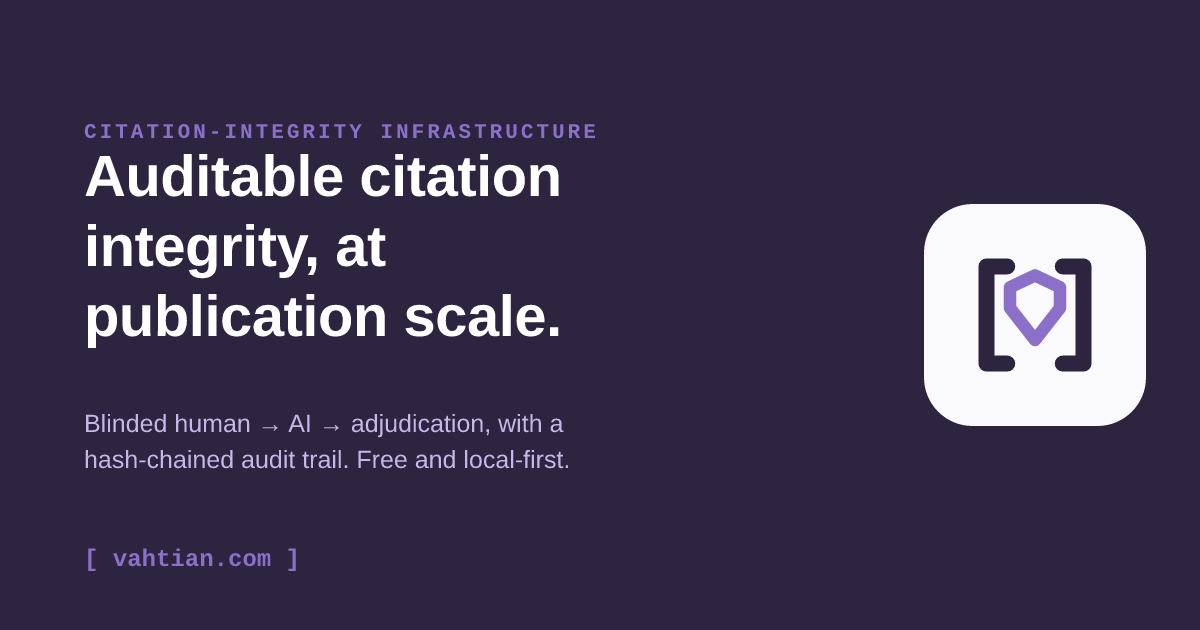
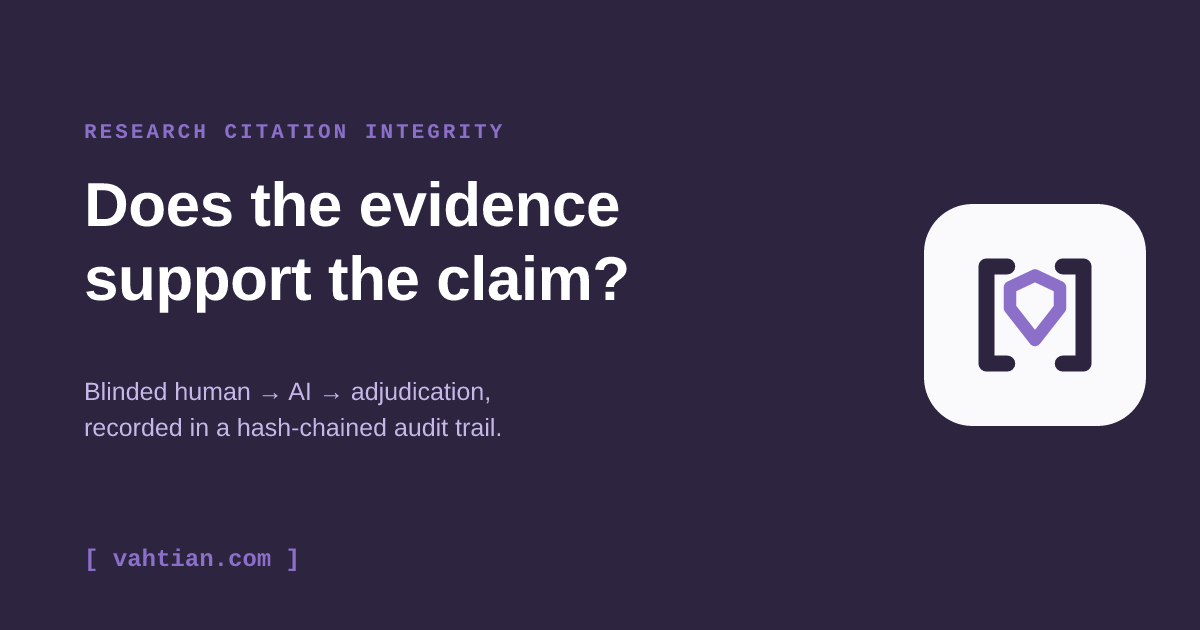
Homepage: plain-language wedge, maturity ladder, trust contract
Three structural changes to index.html:

1. Hero — lead with the plain proposition ('Vahtian verifies whether each
   manuscript claim is supported by the evidence cited for it') instead of
   'sentinel layer / at publication scale'. New stacked positioning lines and
   CTAs ('Check one claim with CiteVahti' / 'See the audit workflow'). 'Sentinel'
   kept as brand poetry lower down. Added a concise #workflow section as the
   secondary-CTA target.

2. Product architecture — replace the flat catalog with a Start / Prepare /
   Scale maturity ladder so the names self-sort: Start = CiteVahti; Prepare =
   StudyVahti, MethodVahti, DictVahti, MatchVahti-Lite; Scale = ReviewVahti,
   GuidelineVahti, AtlasVahti. Tighter, self-sorting descriptors.

3. Trust contract — prominent 'Vahtian does not decide scientific truth' with
   the records sentence (who rated it, what the AI advised, how disagreements
   were adjudicated, what was finally written), above the four principles.

Also refreshed the vahtian OG card copy to match the new hero. Self-contained
check clean; tags balanced.

Changed region(s): [[0.0617, 0.181, 0.5242, 0.5429], [0.0617, 0.6635, 0.4625, 0.754], [0.0617, 0.6032, 0.4008, 0.6333]]

diff --git a/index.html b/index.html
@@ -92,6 +92,20 @@
     .principle h3{margin:0 0 6px;font-size:15px}
     .principle p{margin:0;color:var(--muted);font-size:14px}
     .contact a{font-weight:600}
+    .stack3{display:grid;gap:5px;margin:6px 0 22px;color:#3a3450;font-size:clamp(15px,2.2vw,18px)}
+    .stack3 b{color:var(--ink)}
+    h2 .sub{font-weight:400;font-size:14px;color:var(--muted)}
+    ol.flow{margin:0 0 14px;padding-left:20px;display:grid;gap:9px;color:#322c47}
+    ol.flow b{color:var(--ink)}
+    .tierhead{display:flex;align-items:baseline;gap:11px;flex-wrap:wrap;margin:26px 0 13px}
+    .tierhead:first-of-type{margin-top:6px}
+    .tierhead .t{font:700 12px/1 ui-monospace,SFMono-Regular,Menlo,monospace;letter-spacing:.1em;text-transform:uppercase;color:#fff;background:var(--navy);padding:6px 11px;border-radius:6px}
+    .tierhead .d{color:var(--muted);font-size:14.5px}
+    .contract{background:var(--navy);border-radius:14px;padding:26px 24px}
+    .contract h2{color:#fff;margin:0 0 12px;font-size:clamp(20px,3.4vw,28px);line-height:1.14}
+    .contract p{color:#d9d3ea;font-size:15.5px;line-height:1.65;margin:0;max-width:66ch}
+    .contract p b{color:#fff}
+    .vahti.lower{margin:26px 0 0}
     footer{padding:30px 0 50px;color:var(--muted);font-size:13px;border-top:1px solid var(--line);margin-top:36px}
     footer a{color:var(--muted)}
   </style>
@@ -113,29 +127,56 @@
   </header>
 
   <div class="hero">
-    <p class="kicker">Citation-integrity infrastructure</p>
-    <h1>Auditable citation integrity, at publication scale.</h1>
-    <p class="lede">Vahtian builds the <b>sentinel layer</b> for research citations:
-      a blinded <b>human&nbsp;→&nbsp;AI&nbsp;→&nbsp;adjudication</b> workflow with a
-      decision-gated, undoable write and a hash-chained audit trail. Free and
-      local-first for researchers; paid infrastructure for the organizations that
-      carry citation-risk exposure.</p>
-    <p class="vahti"><b>vahti</b> — Finnish for <i>sentinel / guard</i>. The watch
-      over what gets cited.</p>
+    <p class="kicker">Research citation integrity</p>
+    <h1>Is each claim actually supported by the evidence cited for it?</h1>
+    <p class="lede">Vahtian verifies whether each manuscript claim is supported by
+      the evidence cited for it — through a blinded
+      <b>human&nbsp;→&nbsp;AI&nbsp;→&nbsp;adjudication</b> workflow with a
+      decision-gated, undoable write and a hash-chained audit trail.</p>
+    <div class="stack3">
+      <span><b>Human-first. AI-second. Auditable.</b></span>
+      <span>Free local tools for researchers.</span>
+      <span>Infrastructure for journals, guideline groups, and research organizations.</span>
+    </div>
     <div class="cta">
-      <a class="btn primary" href="/citevahti/">Try CiteVahti →</a>
-      <a class="btn ghost" href="https://github.com/heidihelena/citevahti">View on GitHub</a>
+      <a class="btn primary" href="/citevahti/">Check one claim with CiteVahti →</a>
+      <a class="btn ghost" href="#workflow">See the audit workflow</a>
     </div>
   </div>
 
+  <section id="workflow">
+    <h2>The audit workflow <span class="sub">— blinded human → AI → adjudication</span></h2>
+    <ol class="flow">
+      <li><b>Claim becomes a test.</b> Each manuscript claim is checked against the source cited for it.</li>
+      <li><b>Evidence, not topic.</b> Does the cited paper actually support <em>this</em> claim? (PICO-level match, not keyword overlap.)</li>
+      <li><b>You decide — blinded.</b> The AI rates too, but its opinion stays hidden until you’ve rated. The human is the decider.</li>
+      <li><b>Disagreements adjudicated.</b> When human and AI differ, it routes to a person — never silently resolved.</li>
+      <li><b>Guarded write.</b> A reference enters your library only as the audited, undoable last step of your decision.</li>
+      <li><b>Recorded.</b> A hash-chained audit trail of who rated what, what the AI advised, and what was finally written.</li>
+    </ol>
+    <p><a class="notify" href="/citevahti/">Run it on your manuscript with CiteVahti →</a></p>
+  </section>
+
   <section>
-    <h2>The Vahtian products</h2>
+    <h2>One system, three stages <span class="sub">— start where you are, grow into infrastructure</span></h2>
+
+    <div class="tierhead"><span class="t">Start</span><span class="d">Verify the claims in your own manuscript.</span></div>
     <div class="products">
       <div class="p cite">
         <img class="pmark" src="brand/marks/citevahti.svg" width="46" height="46" alt="" loading="lazy">
         <span><a class="name" href="/citevahti">CiteVahti</a>
-          <span class="for">Researchers &amp; labs — verify the claim before you cite it, inline in your manuscript.</span></span>
+          <span class="for">Verify that each claim in your manuscript is supported by the source cited for it.</span></span>
         <span class="tag beta">free beta</span>
+      </div>
+    </div>
+
+    <div class="tierhead"><span class="t">Prepare</span><span class="d">Get the study and its evidence right before analysis.</span></div>
+    <div class="products">
+      <div class="p study">
+        <img class="pmark" src="brand/marks/studyvahti.svg" width="46" height="46" alt="" loading="lazy">
+        <span><a class="name" href="/studyvahti">StudyVahti</a>
+          <span class="for">Plan a defensible study before data collection — PICOTS, a variable codebook, and protocol-readiness triage.</span></span>
+        <span class="tag free">free · live</span>
       </div>
       <div class="p method">
         <svg class="pmark" viewBox="0 0 32 32" aria-hidden="true">
@@ -149,55 +190,8 @@
           </g>
         </svg>
         <span><a class="name" href="/methodvahti">MethodVahti</a>
-          <span class="for">Qualitative &amp; mixed-methods researchers — justify your sample size and generate a COREQ/SRQR methods PDF, with an evidence-graded audit trail.</span></span>
+          <span class="for">Justify your sample size and generate a COREQ/SRQR methods PDF before you collect qualitative data.</span></span>
         <span class="tag beta">free beta</span>
-      </div>
-      <div class="p review">
-        <img class="pmark" src="brand/marks/reviewvahti.svg" width="46" height="46" alt="" loading="lazy">
-        <span><span class="name">ReviewVahti</span>
-          <span class="for">Journals &amp; editorial offices — claim-level checks, reviewer oversight, manuscript audit trails.</span>
-          <a class="notify" href="mailto:hello@vahtian.com?subject=ReviewVahti%20interest">Get notified →</a></span>
-        <span class="tag soon">roadmap</span>
-      </div>
-      <div class="p guide">
-        <img class="pmark" src="brand/marks/guidelinevahti.svg" width="46" height="46" alt="" loading="lazy">
-        <span><span class="name">GuidelineVahti</span>
-          <span class="for">Guideline groups, societies, institutions &amp; medical-communications teams.</span>
-          <a class="notify" href="mailto:hello@vahtian.com?subject=GuidelineVahti%20interest">Get notified →</a></span>
-        <span class="tag soon">roadmap</span>
-      </div>
-      <div class="p atlas">
-        <img class="pmark" src="brand/marks/atlasvahti.svg" width="46" height="46" alt="" loading="lazy">
-        <span><span class="name">AtlasVahti</span>
-          <span class="for">Consented, de-identified evidence-validation patterns — governed analytics &amp; API.</span>
-          <a class="notify" href="mailto:hello@vahtian.com?subject=AtlasVahti%20interest">Get notified →</a></span>
-        <span class="tag soon">roadmap</span>
-      </div>
-    </div>
-  </section>
-
-  <section>
-    <h2>Free quality-assurance tools</h2>
-    <p class="lede" style="margin-bottom:18px">Single-file, browser-only utilities for researchers — nothing is uploaded, nothing leaves your machine. Free, no account, open core.</p>
-    <div class="products">
-      <div class="p matchlite">
-        <svg class="pmark" viewBox="0 0 32 32" aria-hidden="true">
-          <rect width="32" height="32" rx="7" fill="#2D2440"/>
-          <g fill="none" stroke="#C5B8E8" stroke-width="2.3" stroke-linecap="round" stroke-linejoin="round">
-            <path d="M12 9 H9 V23 H12"/><path d="M20 9 H23 V23 H20"/>
-          </g>
-          <circle cx="13.9" cy="16" r="1.9" fill="#8B6FC9"/><circle cx="18.1" cy="16" r="1.9" fill="#8B6FC9"/>
-          <path d="M13.9 16 H18.1" stroke="#8B6FC9" stroke-width="2.3" stroke-linecap="round"/>
-        </svg>
-        <span><a class="name" href="/matchvahti-lite/">MatchVahti-Lite</a>
-          <span class="for">Read a PubMed abstract, tap the sentences worth citing, tag them or flag <span style="font-family:ui-monospace,Menlo,monospace">[oo]</span> closer-look, and append them to a reviewable Zotero <span style="font-family:ui-monospace,Menlo,monospace">.ris</span> — provenance kept, nothing uploaded. The citation-capture companion to MatchVahti.</span></span>
-        <span class="tag free">free · live</span>
-      </div>
-      <div class="p study">
-        <img class="pmark" src="brand/marks/studyvahti.svg" width="46" height="46" alt="" loading="lazy">
-        <span><a class="name" href="/studyvahti">StudyVahti</a>
-          <span class="for">Plan the study before you build the database — PICOTS structure, a variable codebook, and protocol-readiness triage mapped to SPIRIT / STROBE / TRIPOD and more. Variables export straight into DictVahti.</span></span>
-        <span class="tag free">free · live</span>
       </div>
       <div class="p dict">
         <svg class="pmark" viewBox="0 0 32 32" aria-hidden="true">
@@ -210,20 +204,66 @@
           </g>
         </svg>
         <span><a class="name" href="/dictvahti">DictVahti</a>
-          <span class="for">REDCap data-dictionary linter — 26 deterministic checks across naming, field types, choices, branching logic &amp; completeness, with one-click fixes. Built for researchers and students designing their first EHR-based database.</span></span>
+          <span class="for">Clean the REDCap data dictionary before analysis — 26 deterministic checks with one-click fixes.</span></span>
         <span class="tag free">free · live</span>
+      </div>
+      <div class="p matchlite">
+        <svg class="pmark" viewBox="0 0 32 32" aria-hidden="true">
+          <rect width="32" height="32" rx="7" fill="#2D2440"/>
+          <g fill="none" stroke="#C5B8E8" stroke-width="2.3" stroke-linecap="round" stroke-linejoin="round">
+            <path d="M12 9 H9 V23 H12"/><path d="M20 9 H23 V23 H20"/>
+          </g>
+          <circle cx="13.9" cy="16" r="1.9" fill="#8B6FC9"/><circle cx="18.1" cy="16" r="1.9" fill="#8B6FC9"/>
+          <path d="M13.9 16 H18.1" stroke="#8B6FC9" stroke-width="2.3" stroke-linecap="round"/>
+        </svg>
+        <span><a class="name" href="/matchvahti-lite/">MatchVahti-Lite</a>
+          <span class="for">Capture citation-worthy evidence from PubMed abstracts, with provenance, into a reviewable Zotero <span style="font-family:ui-monospace,Menlo,monospace">.ris</span>.</span></span>
+        <span class="tag free">free · live</span>
+      </div>
+    </div>
+
+    <div class="tierhead"><span class="t">Scale</span><span class="d">Claim-checking as governed infrastructure.</span></div>
+    <div class="products">
+      <div class="p review">
+        <img class="pmark" src="brand/marks/reviewvahti.svg" width="46" height="46" alt="" loading="lazy">
+        <span><span class="name">ReviewVahti</span>
+          <span class="for">Editorial claim-checking workflow for journals &amp; editorial offices — reviewer oversight, manuscript audit trails.</span>
+          <a class="notify" href="mailto:hello@vahtian.com?subject=ReviewVahti%20interest">Get notified →</a></span>
+        <span class="tag soon">roadmap</span>
+      </div>
+      <div class="p guide">
+        <img class="pmark" src="brand/marks/guidelinevahti.svg" width="46" height="46" alt="" loading="lazy">
+        <span><span class="name">GuidelineVahti</span>
+          <span class="for">Governed claim–evidence decisions for guideline panels, societies &amp; medical-communications teams.</span>
+          <a class="notify" href="mailto:hello@vahtian.com?subject=GuidelineVahti%20interest">Get notified →</a></span>
+        <span class="tag soon">roadmap</span>
+      </div>
+      <div class="p atlas">
+        <img class="pmark" src="brand/marks/atlasvahti.svg" width="46" height="46" alt="" loading="lazy">
+        <span><span class="name">AtlasVahti</span>
+          <span class="for">De-identified validation-pattern analytics — consented, governed, API-accessible.</span>
+          <a class="notify" href="mailto:hello@vahtian.com?subject=AtlasVahti%20interest">Get notified →</a></span>
+        <span class="tag soon">roadmap</span>
       </div>
     </div>
   </section>
 
   <section>
-    <h2>What every Vahtian product holds to</h2>
-    <div class="principle">
+    <h2>The trust contract</h2>
+    <div class="contract">
+      <h2>Vahtian does not decide scientific truth.</h2>
+      <p>It records whether a cited source supports a specific claim:
+        <b>who rated it</b>, <b>what the AI advised</b>, <b>how disagreements were
+        adjudicated</b>, and <b>what was finally written</b>. The judgment stays
+        with the researcher; Vahtian keeps the evidence of how it was made.</p>
+    </div>
+    <div class="principle" style="margin-top:16px">
       <div class="box"><h3>The human decides</h3><p>AI is a blinded, advisory second rater — never decisive, never silently propagated. Disagreements route to a person.</p></div>
       <div class="box"><h3>No silent writes</h3><p>References enter your library only as the audited, undoable last step of a human decision. Dedupe fails closed.</p></div>
       <div class="box"><h3>The reasoning is recorded</h3><p>A hash-chained audit trail, so the workflow can be reported transparently in a methods section.</p></div>
       <div class="box"><h3>Open core, local-first</h3><p>The core is Apache-2.0 and runs on your laptop. We never paywall a researcher’s ability to verify their own work.</p></div>
     </div>
+    <p class="vahti lower"><b>vahti</b> — Finnish for <i>sentinel / guard</i>. The watch over what gets cited.</p>
   </section>
 
   <section class="contact">
